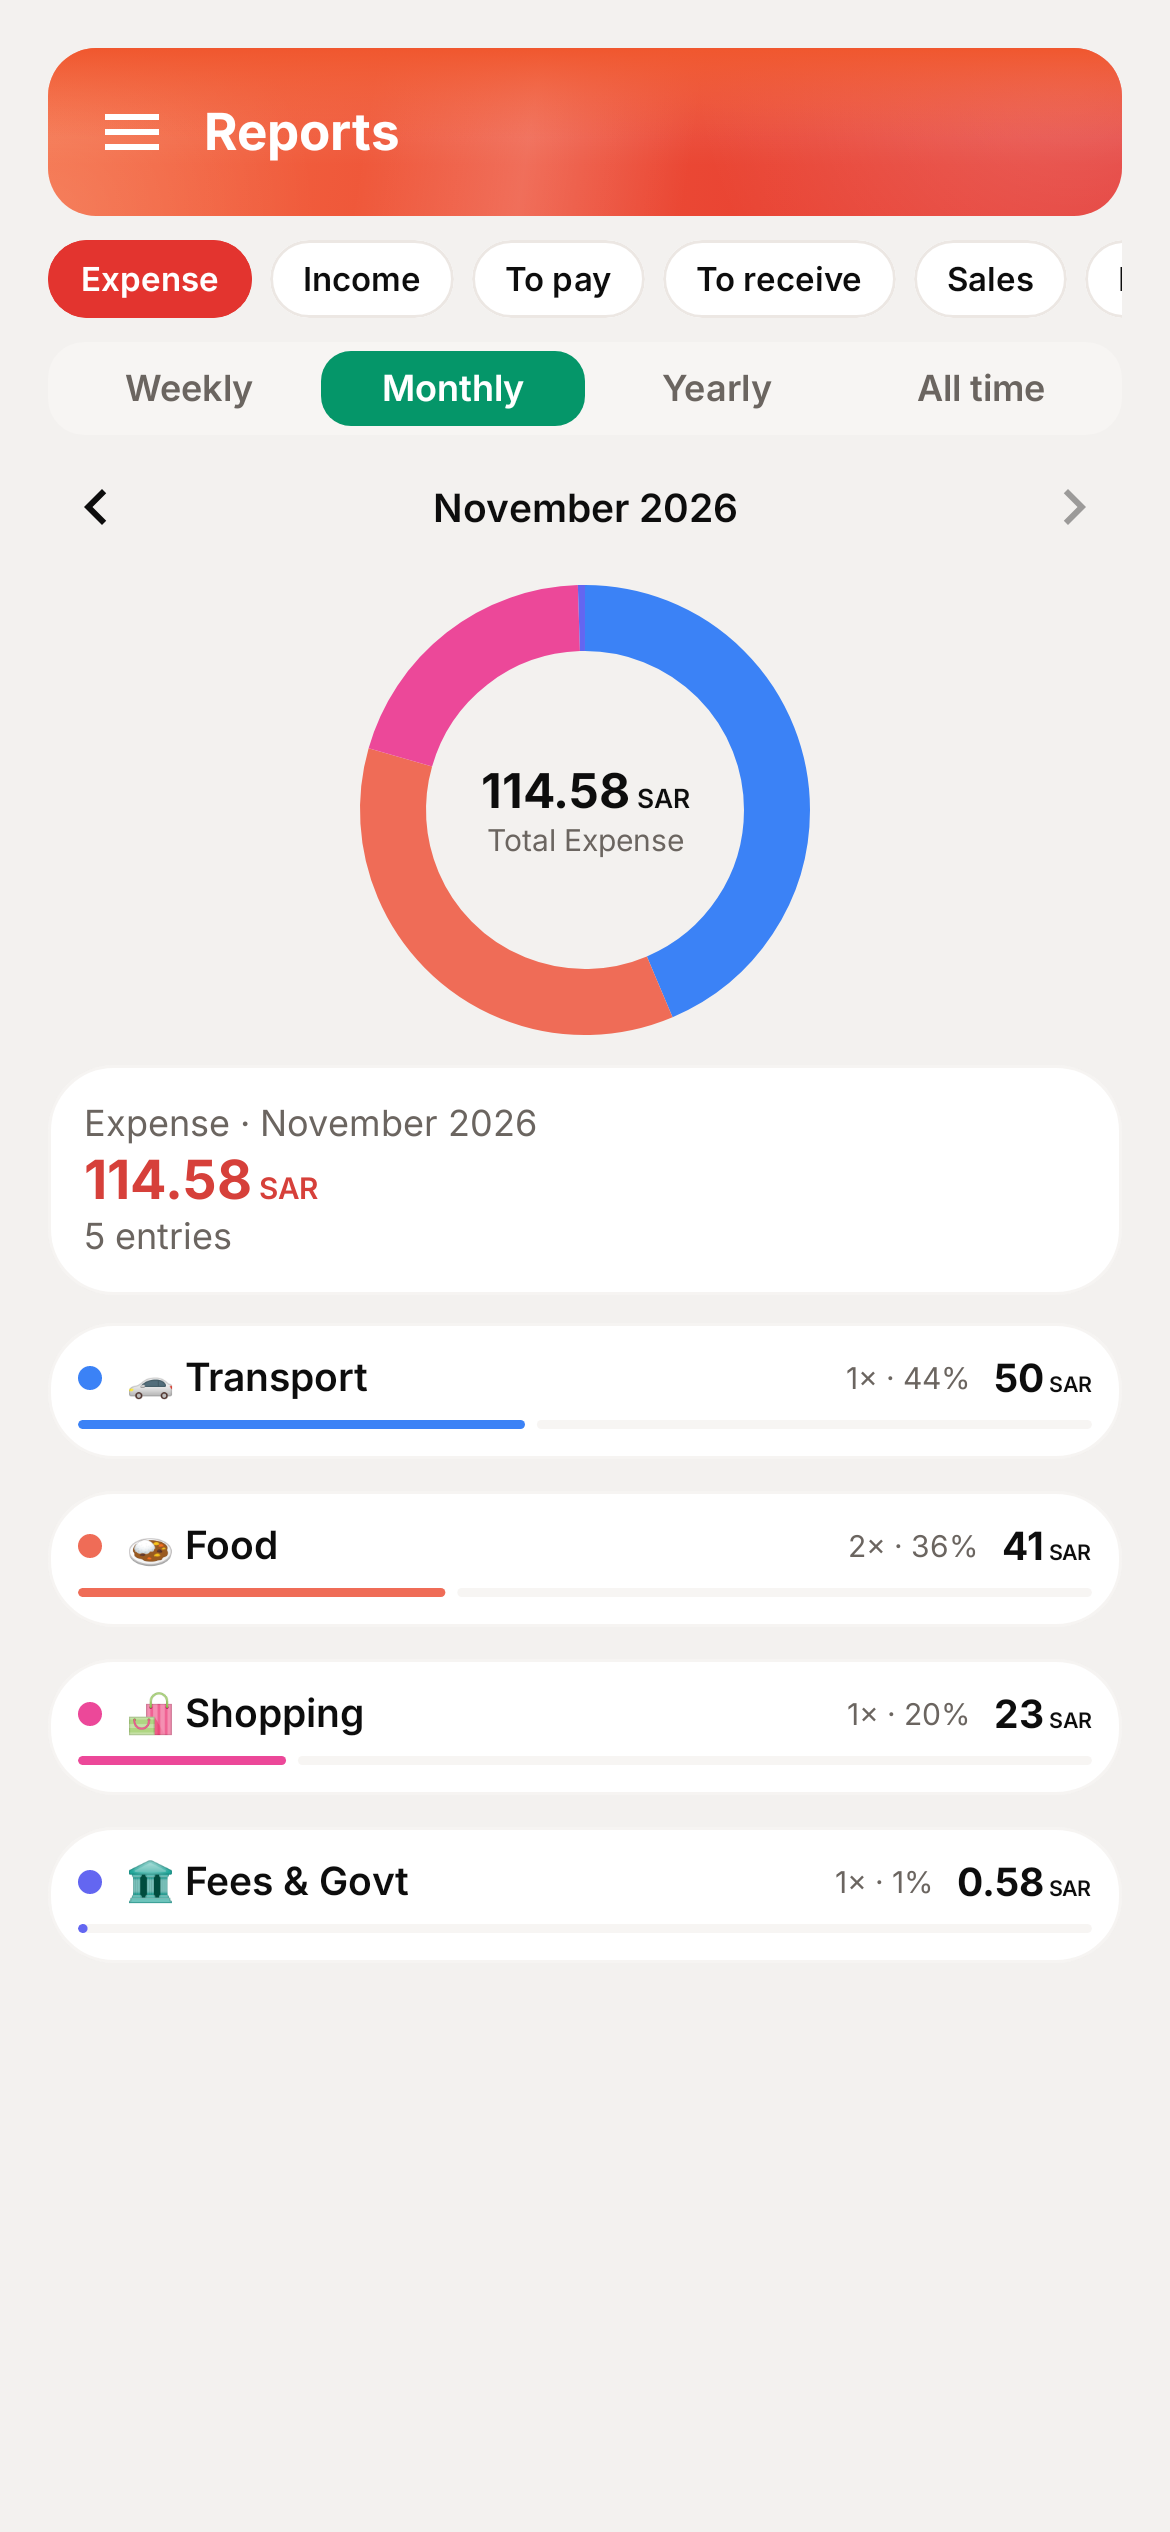
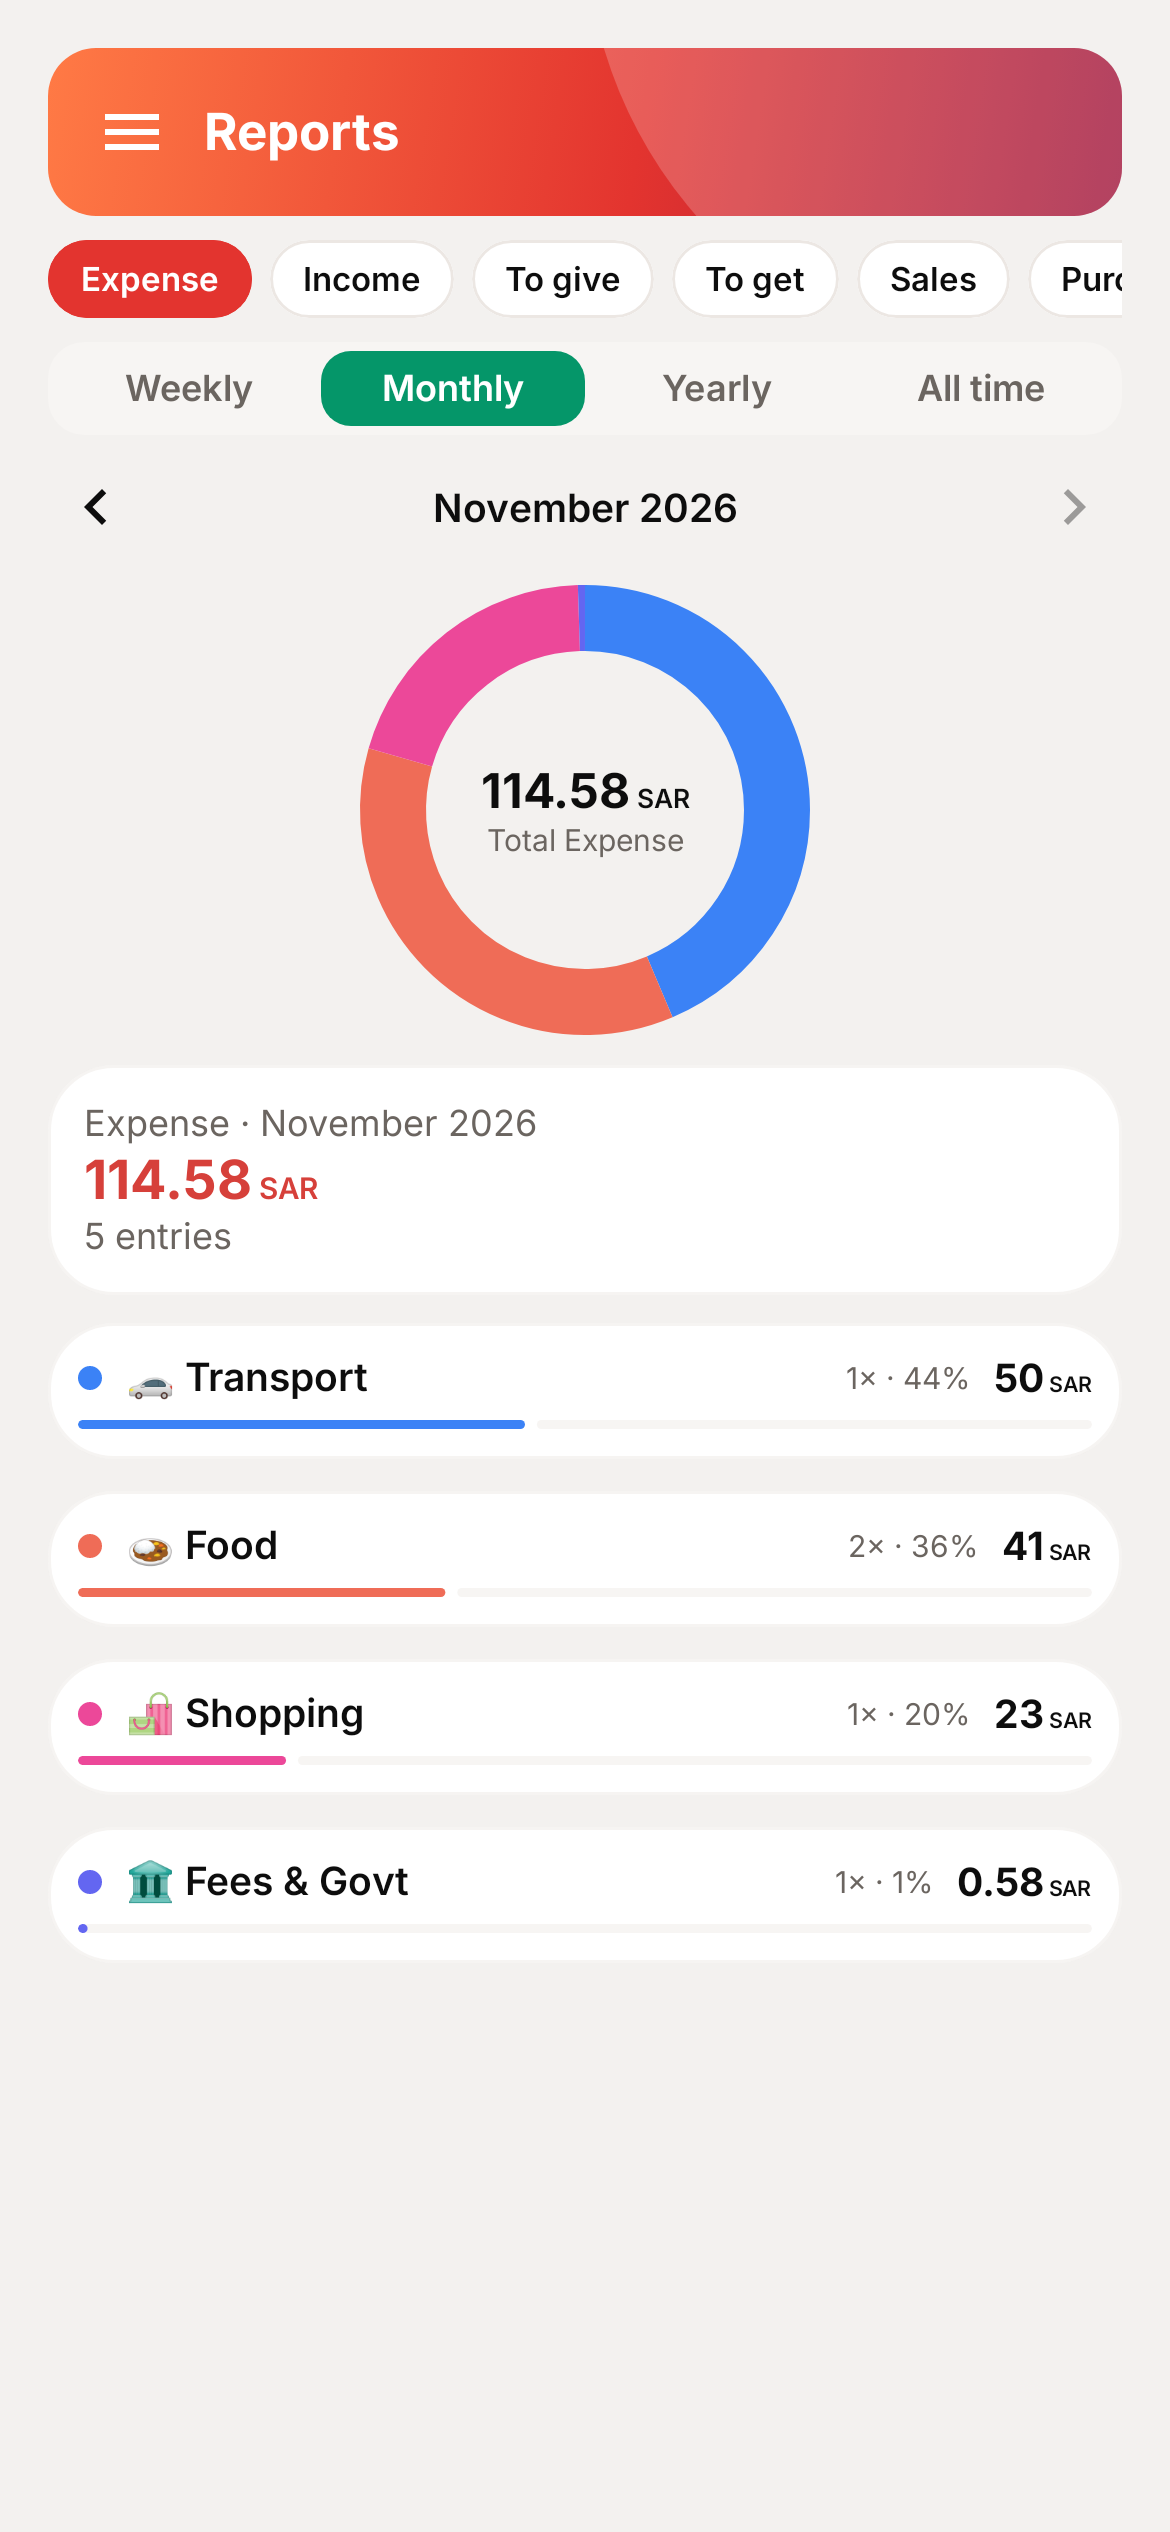
[build-apk] White page background in light mode
Claude-Session: https://claude.ai/code/session_015NizBa7CYKAMR9mMWSWCL6

Changed region(s): [[0.3385, 0.0, 0.9846, 0.1248], [0.0615, 0.0, 0.0923, 0.0312]]

diff --git a/app/src/main/java/com/bolkhata/app/Ui.kt b/app/src/main/java/com/bolkhata/app/Ui.kt
@@ -105,7 +105,7 @@ private fun h(name: String, a: Long, b: Long, c: Long, light: Boolean) = HeaderT
 /** All themes the person can pick in Settings. The first one is the default. */
 val HEADER_THEMES = listOf(
     h("Red", 0xFFE3342F, 0xFFE3342F, 0xFFDC2F2A, false),
-    h("Clean", 0xFFF3F1EF, 0xFFF3F1EF, 0xFFF3F1EF, true),
+    h("Clean", 0xFFFFFFFF, 0xFFFFFFFF, 0xFFFFFFFF, true),
     h("Sand", 0xFFFED7AA, 0xFFFDE7CC, 0xFFFFF5EA, true),
     h("Mint", 0xFFA7F3D0, 0xFFC6F6E0, 0xFFE3FBF1, true),
     h("Sky", 0xFFBAE6FD, 0xFFD6EFFE, 0xFFEEF8FF, true),
@@ -208,7 +208,7 @@ fun BolTheme(dark: Boolean, content: @Composable () -> Unit) {
         onPrimaryContainer = Color(0xFF065F46),
         secondaryContainer = Color(0xFFD1FAE5),
         onSecondaryContainer = Color(0xFF065F46),
-        background = Color(0xFFF3F1EF),
+        background = Color.White,
         onBackground = Color(0xFF0D0D0D),
         surface = Color.White,
         onSurface = Color(0xFF0D0D0D),

diff --git a/app/src/main/java/com/bolkhata/app/Screens.kt b/app/src/main/java/com/bolkhata/app/Screens.kt
@@ -1561,7 +1561,9 @@ fun SettingsScreen(
         item {
             Surface(
                 Modifier.fillMaxWidth().padding(horizontal = 16.dp), shape = RoundedCornerShape(20.dp),
-                color = MaterialTheme.colorScheme.surface
+                color = MaterialTheme.colorScheme.surface,
+                // A faint edge, so the white list stands apart from the white page.
+                border = androidx.compose.foundation.BorderStroke(1.dp, MaterialTheme.colorScheme.outlineVariant)
             ) {
                 Column {
                     ListRow("Name", name.ifBlank { "Add" }) { dialog = "name" }
